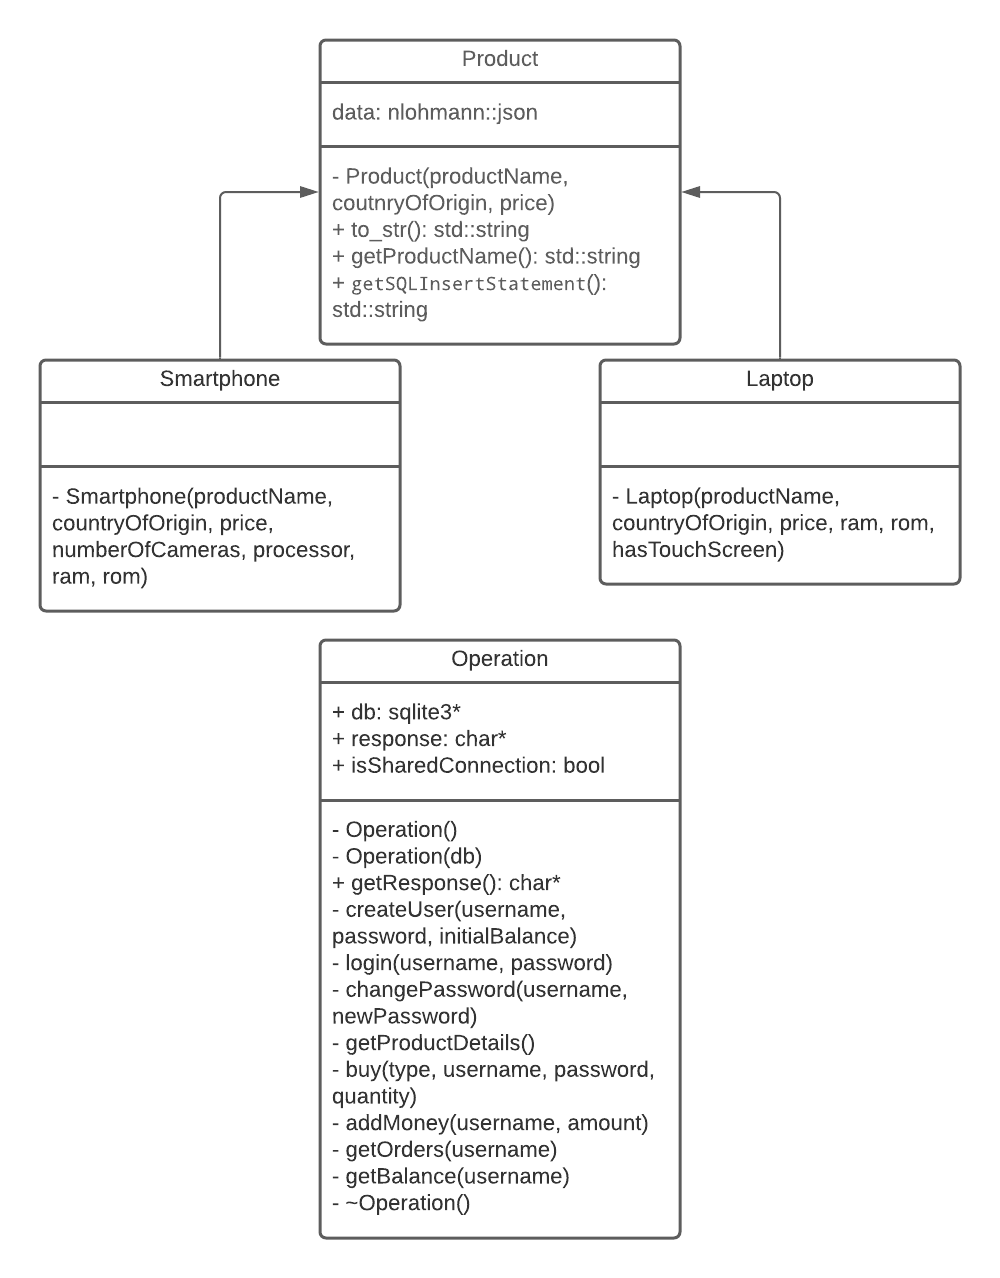
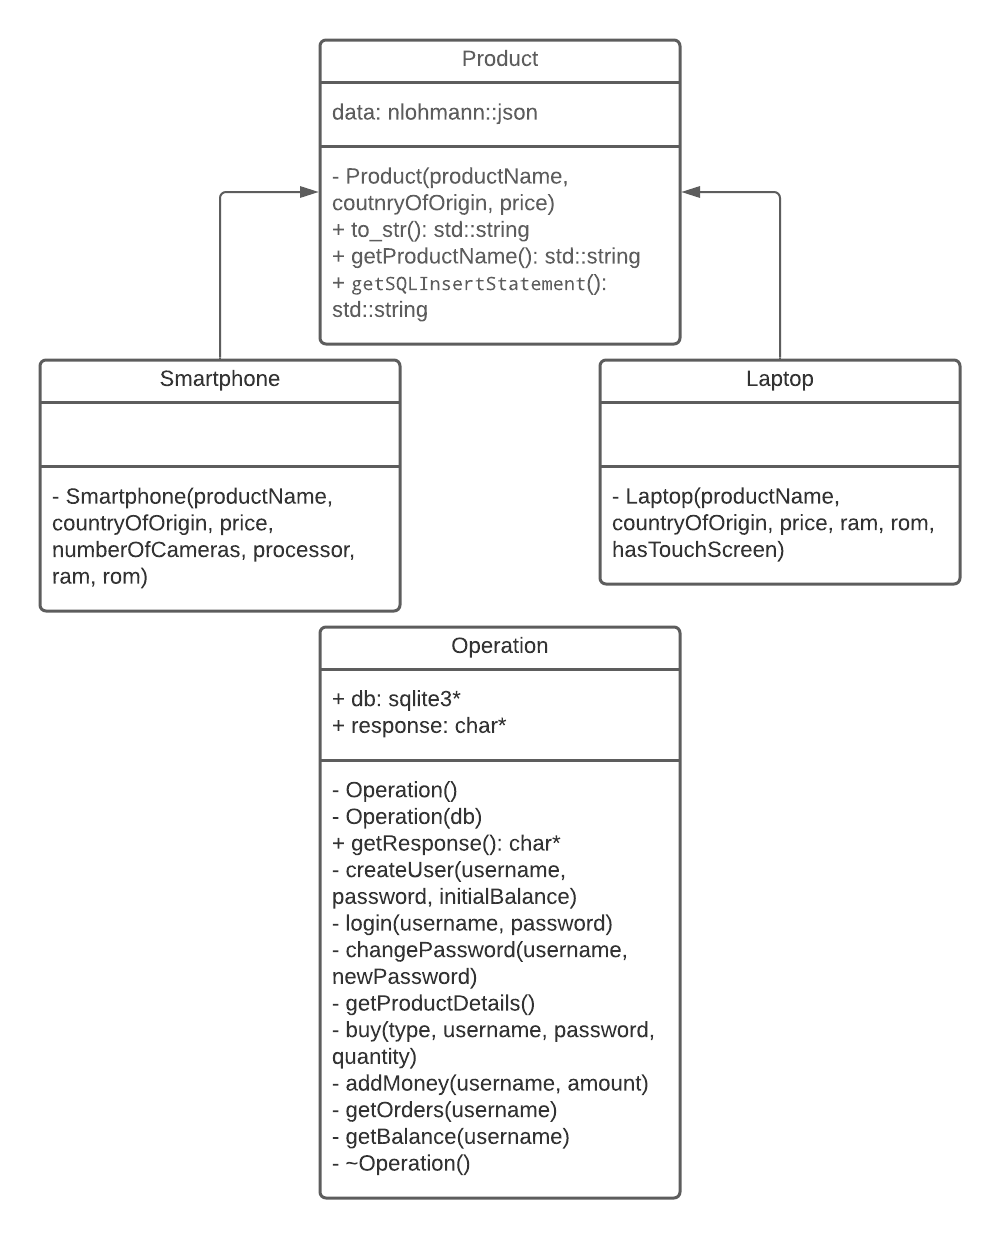
Removing useless parts

Changed region(s): [[0.031, 0.0307, 0.961, 0.9822], [0.682, 0.1228, 0.713, 0.1842]]

diff --git a/src/operation.hpp b/src/operation.hpp
@@ -15,6 +15,7 @@ using std::getline;
 using std::ifstream;
 
 string ordersFileName = "data/orders.txt";
+mutex ordersFileMutex;
 
 string join(string delim, vector<string> strings) {
     string result = "";
@@ -31,17 +32,10 @@ string join(string delim, vector<string> strings) {
 
 class Operation {
     sqlite3* db;
-    bool isSharedConnection;
     char* response = NULL;
 public:
     Operation() {
         sqlite3_open(databaseFileName.c_str(), &db);
-        isSharedConnection = false;
-    }
-
-    Operation(sqlite3* db) {
-        this->db = db;
-        isSharedConnection = true;
     }
 
     char* getResponse() {
@@ -264,17 +258,15 @@ public:
             string order = join(",", partsToAppend);
             //std::cout << "Order is " << order << std::endl;
             //std::cout << username << " " << productName << " " << qauntity << " " << price << std::endl;
-
-            mutex mt;
         
-            mt.lock();
+            ordersFileMutex.lock();
             // Making our write operation thread safe.
             // Only one thread should be able to access to the file at a time.
             ofstream myfile;
             myfile.open ("data/orders.txt", ios::app);
             myfile << order << endl;
             myfile.close();
-            mt.unlock();
+            ordersFileMutex.unlock();
             
         } else {
             response = "Insufficient balance";
@@ -299,9 +291,7 @@ public:
         // A user can access his/her orders.
         vector<string> orders;
 
-        mutex mt;
-        
-        mt.lock();
+        ordersFileMutex.lock();
         // Making our write operation thread safe.
         // Only one thread should be able to access to the file at a time.
         
@@ -316,7 +306,7 @@ public:
             }
         }
 
-        mt.unlock();
+        ordersFileMutex.unlock();
 
         string ans = join("\n", orders);
         //std::cout << ans;
@@ -363,8 +353,6 @@ public:
     }
 
     ~Operation() {
-        if (!isSharedConnection) {
-            sqlite3_close(db);
-        }
+        sqlite3_close(db);
     }
 };
